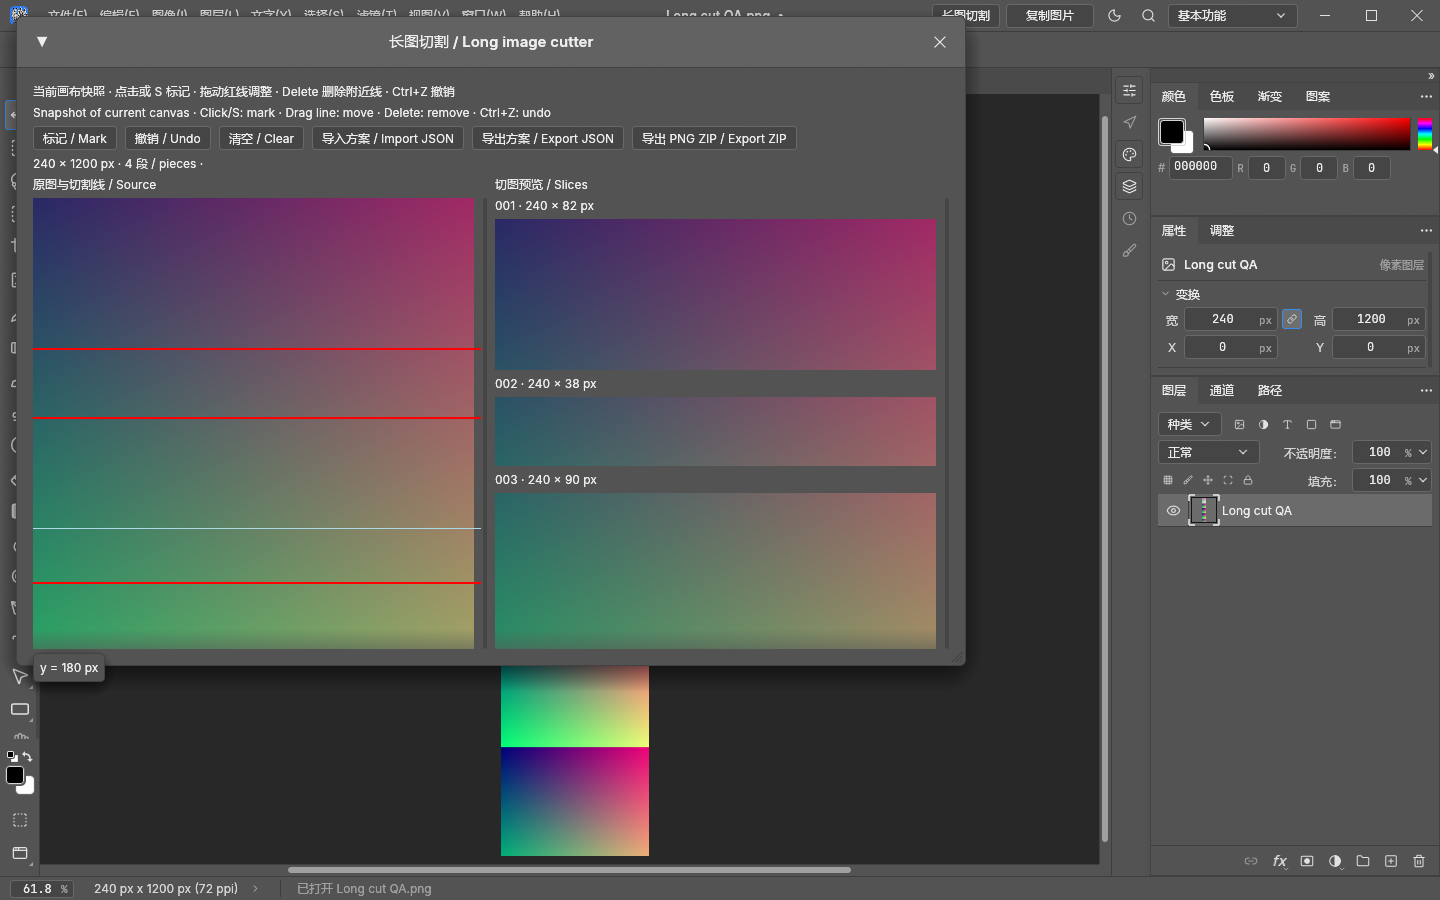
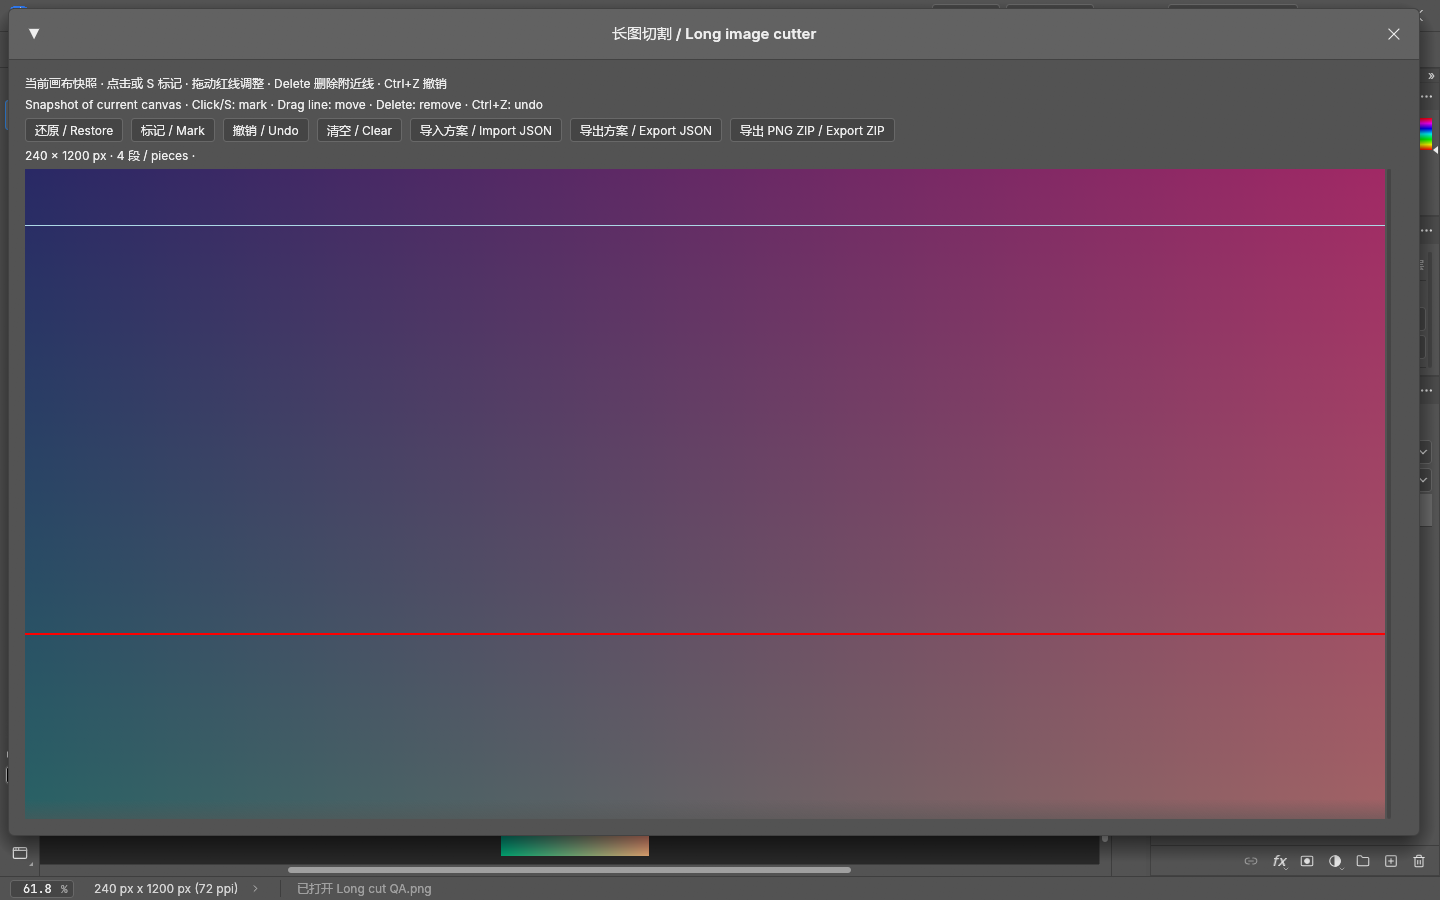
ui: enlarge cutter window and remove slice preview

diff --git a/tests/smoke_long_cut.py b/tests/smoke_long_cut.py
@@ -34,11 +34,14 @@ def main():
     restored=state['cuts']
     if args.expect_restored:assert restored==[82,120,210],restored
     x,y,w,h=state['sourceRect']
-    c.call('ui.click',x=x+w/2,y=y+h*50/1200)
+    c.call('ui.click',x=x+w/2,y=y+h*10/1200)
     assert len(c.call('ui.inspect')['longCut']['cuts'])==len(restored)+1
+    x,y,w,h=c.call('ui.inspect')['longCut']['sourceRect']
+    c.call('ui.move',x=x+w/2,y=y+h*10/1200)
     c.call('ui.key',key='Z',command=True)
     assert c.call('ui.inspect')['longCut']['cuts']==restored
-    c.call('ui.move',x=x+w/2,y=y+h*180/1200)
+    x,y,w,h=c.call('ui.inspect')['longCut']['sourceRect']
+    c.call('ui.move',x=x+w/2,y=y+h*20/1200)
     c.call('ui.key',key='S')
     assert len(c.call('ui.inspect')['longCut']['cuts'])==len(restored)+1
     c.call('ui.key',key='Delete')

diff --git a/build_release.py b/build_release.py
@@ -3,7 +3,7 @@ from pathlib import Path
 import zipfile
 
 root = Path(__file__).resolve().parent
-destination = root / 'dist/photocraft-codex-ai-0.3.4.zip'
+destination = root / 'dist/photocraft-codex-ai-0.3.5.zip'
 destination.parent.mkdir(exist_ok=True)
 files = [root / name for name in ('README.md', 'VALIDATION.md', 'THIRD_PARTY.md', 'RELEASE_NOTES.md',
                                  'requirements.txt', 'start.cmd', 'start-native.cmd', 'start-panel.cmd',

diff --git a/build_portable.py b/build_portable.py
@@ -6,7 +6,7 @@ import shutil
 import zipfile
 
 ROOT = Path(__file__).resolve().parent
-VERSION = '0.3.4'
+VERSION = '0.3.5'
 output = ROOT / f'dist/photocraft-codex-ai-{VERSION}-windows-x64-local-node'
 output.mkdir(parents=True, exist_ok=False)
 python = output / 'python'

diff --git a/docs/long-image-cutter.md b/docs/long-image-cutter.md
@@ -5,7 +5,7 @@
 1. 在 PhotoCraft 中打开长图，点击顶部 **长图切割**，或 **文件 → 导出 → 长图切割**。
 2. 工具读取当前完整可见画布的快照，忽略选区；打开后对原文档的编辑不会自动刷新快照。需要刷新时关闭工具并重新打开。
 3. 左侧点击或将鼠标放在图片上按 **S**，在原图像素行添加切割线；拖动红线调整。**Delete** 删除鼠标附近的线，**Ctrl+Z** 撤销。快捷键在鼠标位于左侧图片且不在文本输入时生效。
-4. 右侧实时预览切图，两栏可独立滚动。点击 **导出 PNG ZIP**，选择保存位置。各段保持原图宽度，连续覆盖每一行，保留 8-bit RGBA 透明度。
+4. 从 0.3.5 起使用单栏大图，移除右侧切图预览。窗口默认随编辑器尺寸放大，可拖边缩放或点击 **最大化 / 还原**，图像操作区高度随窗口变化。点击 **导出 PNG ZIP**，选择保存位置。各段保持原图宽度，连续覆盖每一行，保留 8-bit RGBA 透明度。
 5. 切割线自动保存在本机配置目录，按完整画布像素内容和尺寸识别；同一张图重新打开可以恢复。编辑画布后内容不同，视为新图。
 6. **导出方案** 保存兼容 LongPicCutter v1 的 JSON；**导入方案** 仅接受相同宽高的方案，确认后替换。清空也需要确认。
 
@@ -13,7 +13,7 @@
 
 ## English
 
-Open **Long image cutter** from the title bar or File → Export. The native window snapshots the full visible canvas without altering the selection, clipboard, or history. Click or press S over the source to mark a row; drag a red line to move it, Delete to remove a nearby line, and Ctrl+Z to undo. The right side previews slices immediately, with independent scrolling.
+Open **Long image cutter** from the title bar or File → Export. The native window snapshots the full visible canvas without altering the selection, clipboard, or history. Click or press S over the source to mark a row; drag a red line to move it, Delete to remove a nearby line, and Ctrl+Z to undo. Since 0.3.5, the cutter has one full-width source view with no slice preview. Its default size follows the editor window, with Maximize/Restore, manual resizing and a dynamically sized image area.
 
 Export a ZIP of lossless RGBA8 PNG slices at original width, or exchange a version-1 JSON plan with LongPicCutter. Import requires identical dimensions and confirmation. Cuts are saved locally by canvas content and dimensions. Reopen the tool to refresh a snapshot after editing the document. Limits: 64 million pixels, 1,024 cuts, 512 MiB ZIP. No image is uploaded. This is an independent implementation inspired by LongPicCutter, with no source copied from that project.
 

diff --git a/README.md b/README.md
@@ -1,10 +1,14 @@
-# PhotoCraft Userfull Tools 0.3.4
+# PhotoCraft Userfull Tools 0.3.5
+
+切图窗口改为单栏大图，移除右侧预览；默认尺寸随编辑器窗口放大，支持最大化/还原，图像操作区高度随窗口调整。
+
+The cutter now uses one large source view, without a slice preview. Its default size follows the editor window, with Maximize/Restore and a dynamically sized image area.
 
 修复局部修改/移除物体的比例报错：完整画布等比补边为 1:1 参考图，模型返回后移除补边并映射回原画布，只在原选区内导入。兼容旧任务中保留的非标准尺寸结果。模型返回比例不一致时会归一化尺寸，可能带来几何误差；原始生成文件始终保留。
 
 Fix: Fill/Remove now use a square letterboxed reference with an inverse canvas mapping. Returned sizes are normalized before selection-only import, including retained legacy jobs. Incorrect model aspect ratios may introduce geometric error; original generated files are retained.
 
-新增 **长图切割**：顶部按钮或文件导出菜单打开，标记/拖动切割线、实时分段预览、PNG ZIP 导出、自动保存及 LongPicCutter JSON 方案互通。**生成图片** 默认 1:1，等比放入选区。详见 [使用说明](docs/long-image-cutter.md)。
+新增 **长图切割**：顶部按钮或文件导出菜单打开，标记/拖动切割线、PNG ZIP 导出、自动保存及 LongPicCutter JSON 方案互通。**生成图片** 默认 1:1，等比放入选区。详见 [使用说明](docs/long-image-cutter.md)。
 
 New: native **Long image cutter**, PNG ZIP export, local cut-plan recovery and LongPicCutter JSON interchange. **Generate image** defaults to 1:1 and proportionally fits the selection. See [instructions](docs/long-image-cutter.md).
 

diff --git a/VALIDATION.md b/VALIDATION.md
@@ -1,3 +1,11 @@
+# Userfull Tools 0.3.5 validation (2026-11-03)
+
+Removed slice preview; one full-width source view. Default cutter size follows the editor viewport; Maximize/Restore and dynamic scroll height replace the fixed 950x650 dialog and 480-pixel scroll area.
+
+Five existing cutter tests passed. UI all-targets Clippy (-D warnings), wasm check and reverse patch check passed. Native screenshots verified large normal and maximized states. Real marking, deleting and undo preserved cuts and the document. Snapshot, slicing and ZIP algorithms are unchanged. The UI smoke script now refreshes widget coordinates before keyboard gestures because the window may settle its layout after opening. Prior regression limitations remain below.
+
+---
+
 # Userfull Tools 0.3.4 validation (2026-11-03)
 
 43 Python tests passed. New cases cover 1920x1080 -> 1024x1024 letterboxing, synchronized selection coordinates, inverse mapping of a 1717x916 model result with original selection alpha, legacy retained-job normalization, and preservation of the original canvas-sized selection file. Existing stale-document tests continue to pass. No new live generation was requested. The native editor binary and long-image cutter are unchanged from the validated 0.3.3 build; native checks were not repeated for this Python-only fix.

diff --git a/RELEASE_NOTES.md b/RELEASE_NOTES.md
@@ -1,4 +1,8 @@
-# PhotoCraft Userfull Tools 0.3.4
+# PhotoCraft Userfull Tools 0.3.5
+
+- 切图窗口默认跟随编辑器尺寸，新增最大化/还原，操作区高度随窗口变化。
+- 按需求移除右侧切图预览，改为单栏大图。切割线、方案和 ZIP 导出功能保留。
+- Larger adaptive cutter window with Maximize/Restore and one full-width source view; removed slice preview. Cutting and export behavior are unchanged.
 
 - 修复“局部修改”和“移除物体”仍因返回图片比例不同而拒绝导入：新增 1:1 等比补边参考图和原画布坐标映射；旧任务支持尺寸归一化。
 - 原始选区、透明度、羽化和文档修订检查保留。比例异常的模型输出需要尺寸归一化，可能产生几何误差，原文件保留。
